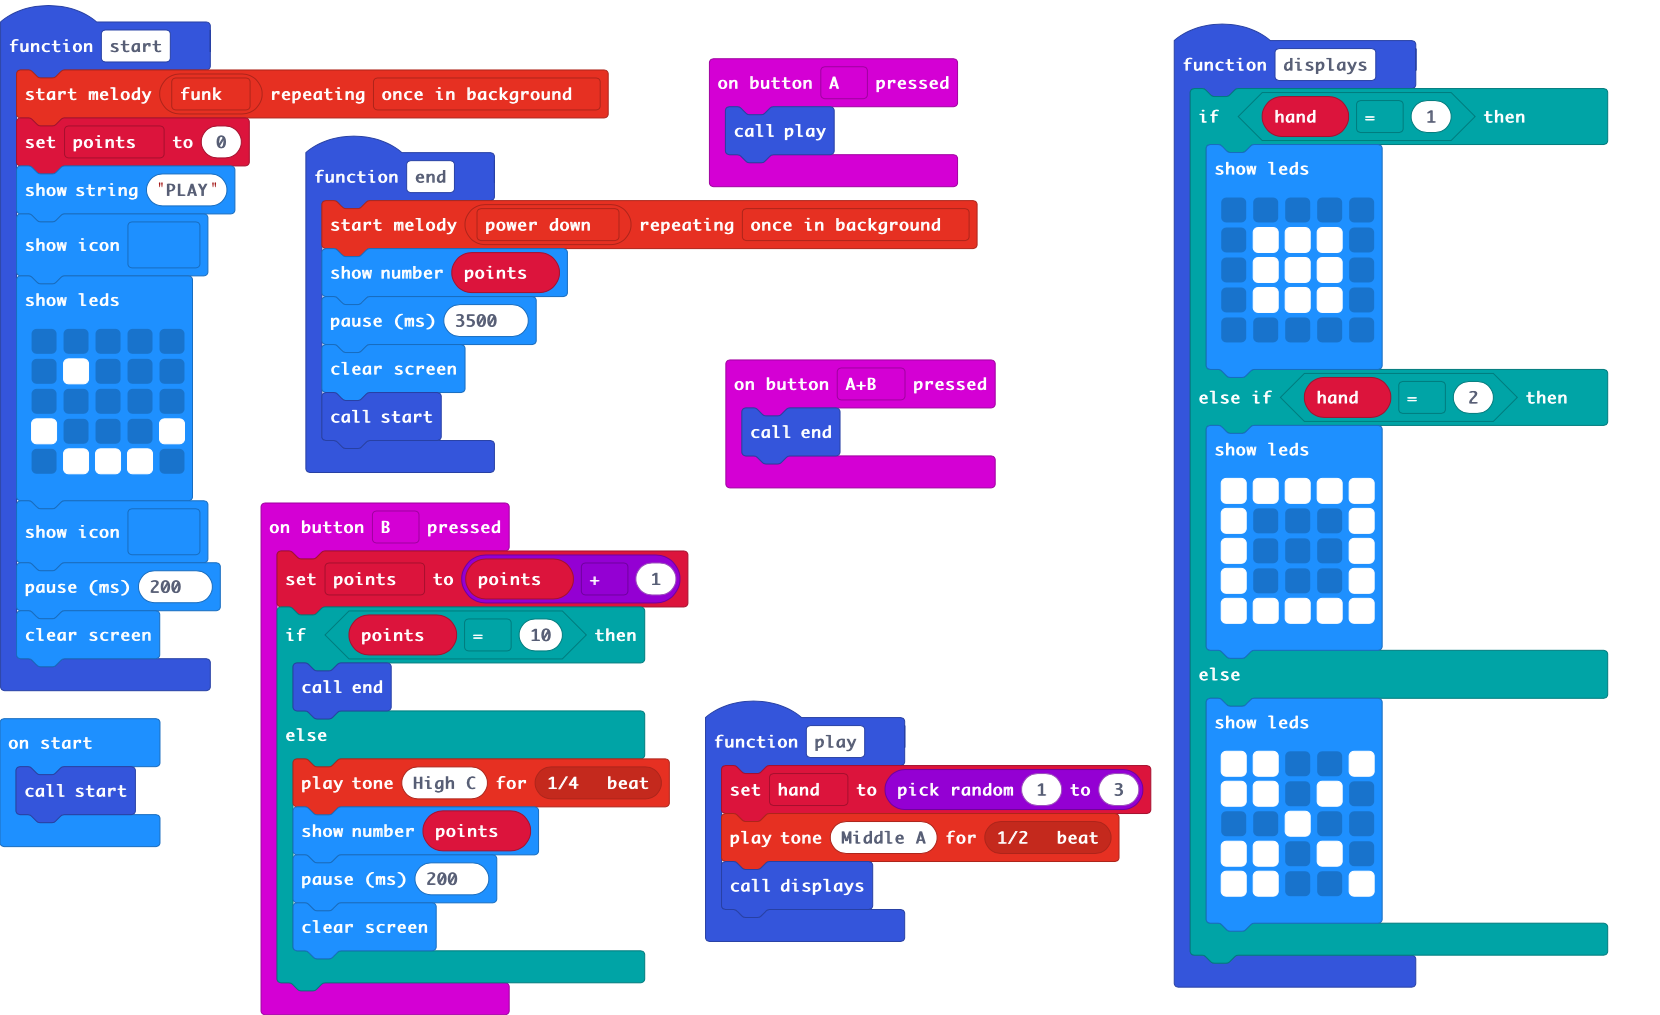
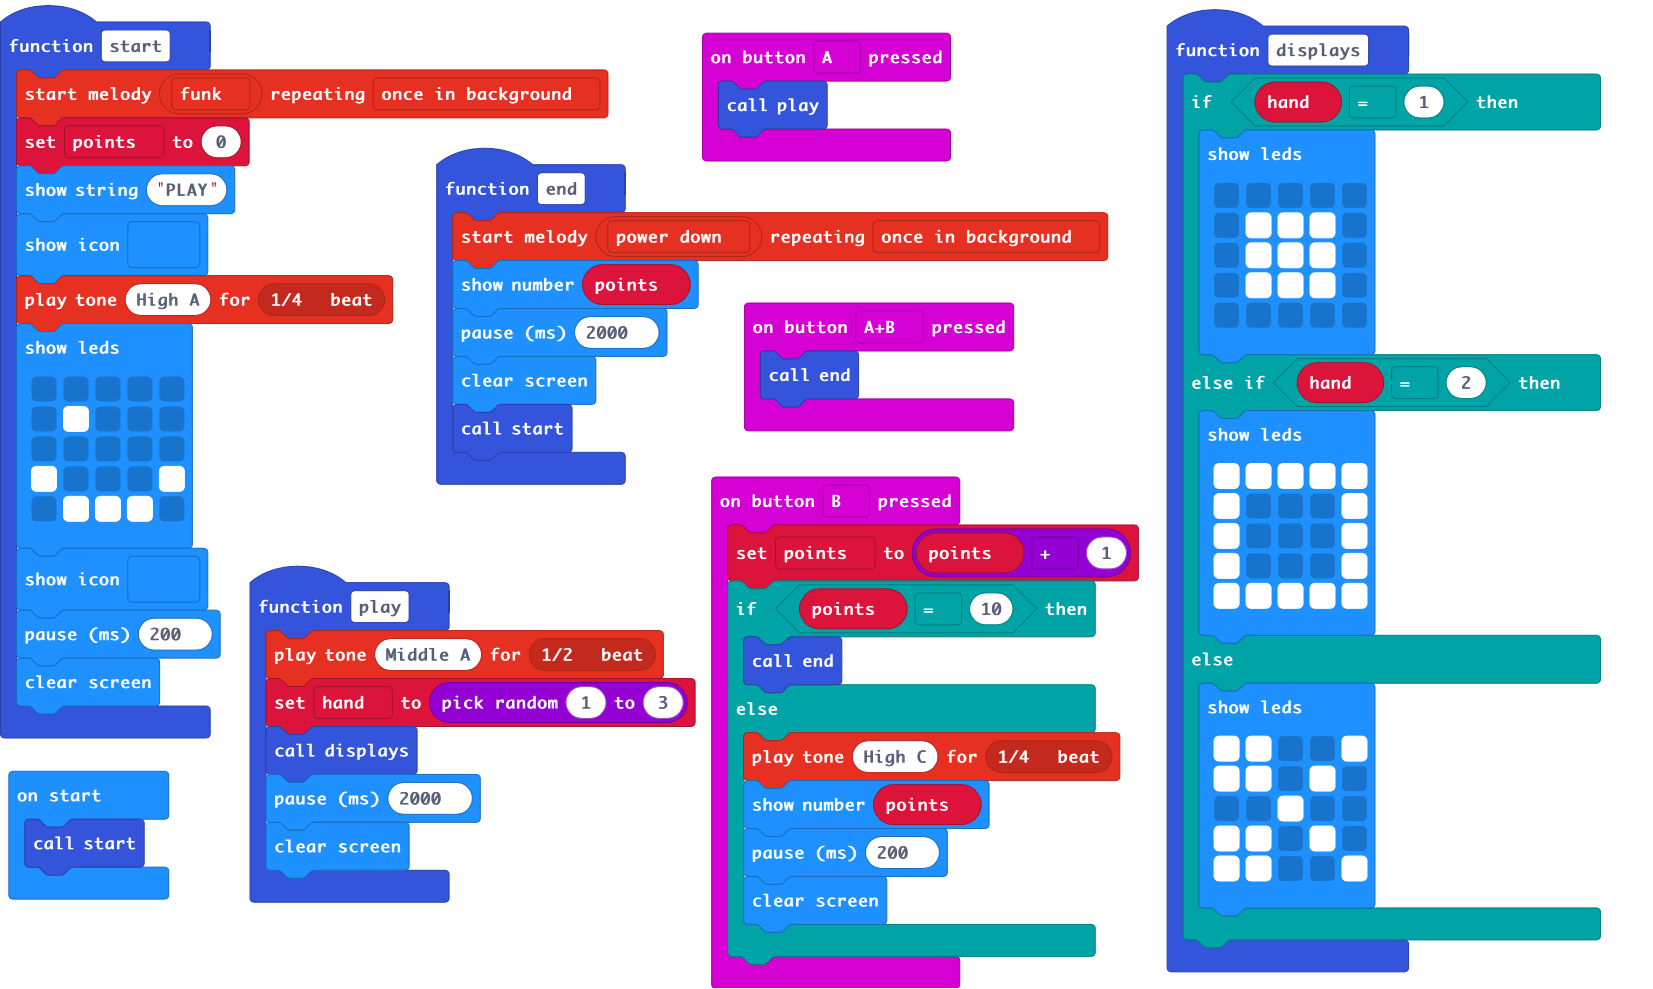
changes on start and play functions

diff --git a/main.ts b/main.ts
@@ -4,14 +4,16 @@ input.onButtonPressed(Button.A, function () {
 function end () {
     music.startMelody(music.builtInMelody(Melodies.PowerDown), MelodyOptions.OnceInBackground)
     basic.showNumber(points)
-    basic.pause(3500)
+    basic.pause(2000)
     basic.clearScreen()
     start()
 }
 function play () {
-    hand = randint(1, 3)
     music.playTone(440, music.beat(BeatFraction.Half))
+    hand = randint(1, 3)
     displays()
+    basic.pause(2000)
+    basic.clearScreen()
 }
 input.onButtonPressed(Button.AB, function () {
     end()
@@ -32,6 +34,7 @@ function start () {
     points = 0
     basic.showString("PLAY")
     basic.showIcon(IconNames.Happy)
+    music.playTone(880, music.beat(BeatFraction.Quarter))
     basic.showLeds(`
         . . . . .
         . # . . .
